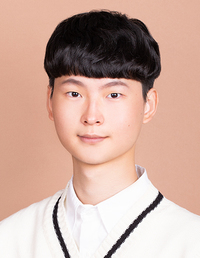
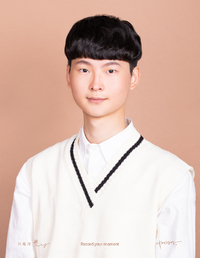
프로필 이미지 수정

diff --git a/public/js/app.js b/public/js/app.js
@@ -310,10 +310,12 @@ $(window).on('scroll', () => {
 
   // 프로필 이미지 아래로 스크롤 따라 옮기기
   if (
-    st + wh >= $('.my-profile').offset().top &&
-    st <= $('.my-profile img').offset().top + $('.my-profile').height()
+    st + wh >= $('.my-profile .img-box').offset().top &&
+    st <=
+      $('.my-profile .img-box').offset().top +
+        $('.my-profile .img-box').height()
   ) {
-    $('.my-profile img').css({
+    $('.my-profile .img-box').css({
       transform: `translate3d(0, ${
         (st + wh - $('.my-profile').offset().top) / 4
       }px, 0)`,

diff --git a/index.html b/index.html
@@ -161,14 +161,7 @@
             </div>
           </div>
           <div class="my-profile fade-down" data-duration="1000">
-            <div class="img-box">
-              <img
-                src="./public/images/profile.jpeg"
-                alt="my Profile"
-                width="400"
-                height="400"
-              />
-            </div>
+            <div class="img-box"></div>
           </div>
           <div class="my-info">
             <p class="history-txt fade-up" data-duration="1000">2021.05,24</p>

diff --git a/public/scss/style.scss b/public/scss/style.scss
@@ -453,13 +453,14 @@
       padding-right: 10rem;
       text-align: right;
       .img-box {
+        width: 200px;
+        height: 200px;
         margin-left: auto;
-      }
-      img {
-        width: 350px;
-        height: 350px;
-        object-fit: cover;
+        background: url(../images/profile.jpeg);
+        background-repeat: no-repeat;
+        background-position: center top;
         border-radius: 50%;
+        background-size: cover;
       }
     }
     .my-info {

diff --git a/public/css/style.css b/public/css/style.css
@@ -514,13 +514,14 @@ section:not(.project) {
   text-align: right;
 }
 .about .container .my-profile .img-box {
+  width: 200px;
+  height: 200px;
   margin-left: auto;
-}
-.about .container .my-profile img {
-  width: 350px;
-  height: 350px;
-  object-fit: cover;
+  background: url(../images/profile.jpeg);
+  background-repeat: no-repeat;
+  background-position: center top;
   border-radius: 50%;
+  background-size: cover;
 }
 .about .container .my-info {
   width: 50%;
